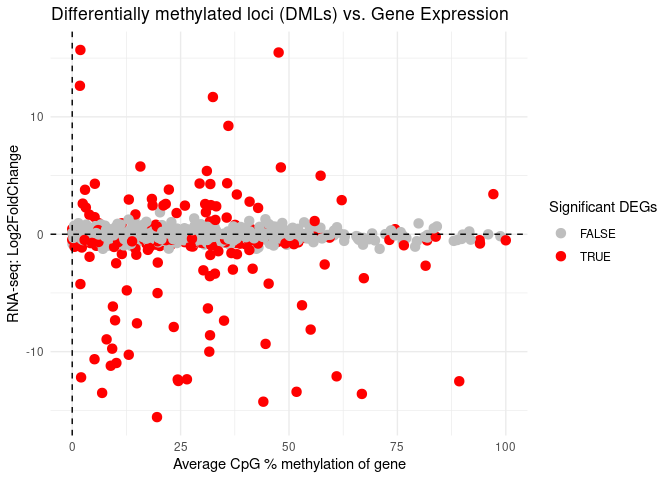
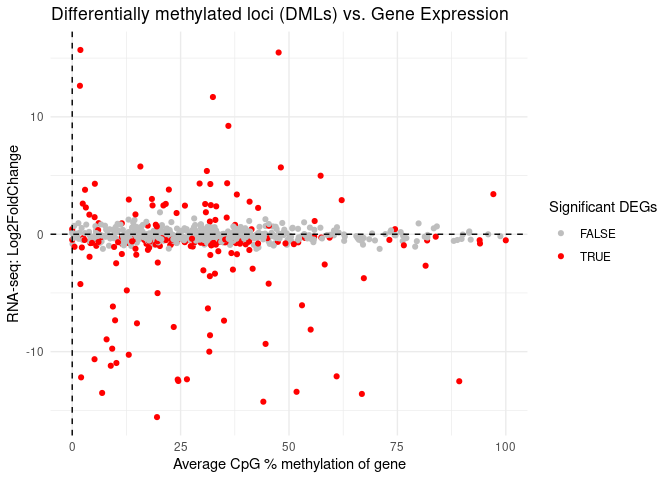
update

diff --git a/code/09-MethylKit.md b/code/09-MethylKit.md
@@ -13,6 +13,7 @@ Zoe Dellaert
   methylation](#04-further-look-at-genome-wide-methylation)
   - [0.4.1 Annotation](#041-annotation)
 - [0.5 Are any DMGs DMLs?](#05-are-any-dmgs-dmls)
+  - [0.5.1 Read counts](#051-read-counts)
 
 ## 0.1 MethylKit
 
@@ -891,12 +892,12 @@ percent_meth <- percent_meth %>% rowwise() %>%
   ungroup()
 
 percent_meth <- percent_meth %>% rowwise() %>%
-  mutate(percent_meth_ORAL = mean(c_across(meta$Sample[meta$Tissue=="OralEpi"]), na.rm = TRUE)) %>%
-  mutate(percent_meth_ABORAL = mean(c_across(meta$Sample[meta$Tissue=="Aboral"]), na.rm = TRUE)) %>%
+  mutate(Oral = mean(c_across(meta$Sample[meta$Tissue=="OralEpi"]), na.rm = TRUE)) %>%
+  mutate(Aboral = mean(c_across(meta$Sample[meta$Tissue=="Aboral"]), na.rm = TRUE)) %>%
   ungroup()
   
 percent_meth_long <- percent_meth %>% pivot_longer(
-                                      cols = c(percent_meth_ORAL,percent_meth_ABORAL),
+                                      cols = c(Oral,Aboral),
                                       names_to = "Tissue",
                                       values_to = "tissue_percent_meth"
 )
@@ -946,7 +947,7 @@ ggplot(plot_data, aes(y = abs(log2FoldChange), x = percent_meth_ALL)) +
 ``` r
 # Create the plot
 ggplot(plot_data, aes(x = percent_meth_ALL, y = log2FoldChange)) +
-  geom_point(aes(color = padj < 0.05), size = 3) +
+  geom_point(aes(color = padj < 0.05)) +
   #geom_text_repel(aes(label = ifelse(padj < 0.05, gene_id, "")), max.overlaps = 20) +
   geom_hline(yintercept = 0, linetype = "dashed") +
   geom_vline(xintercept = 0, linetype = "dashed") +
@@ -966,10 +967,61 @@ plot_data <- merge(percent_meth_long, DESeq, by.x = "gene_id", by.y = "query")
 ggplot(plot_data, aes(y = abs(log2FoldChange), x = tissue_percent_meth, color=Tissue)) +
   geom_point(alpha = 0.5) + geom_smooth(method = "lm") + stat_poly_eq(use_label("eq", "R2"))+
   labs(x = "Average CpG % methylation of gene", y = "Abs(DeSeq2 Log2FoldChange)", 
-       title = "Oral methylation only - Gene Methylation vs Expression") +
+       title = "Gene Methylation vs Expression") +
   theme_minimal()
 ```
 
     ## `geom_smooth()` using formula = 'y ~ x'
 
 ![](09-MethylKit_files/figure-gfm/unnamed-chunk-22-1.png)<!-- -->
+
+### 0.5.1 Read counts
+
+RNA metadata:
+
+``` r
+meta_RNA <- read.csv("../data_RNA/LCM_RNA_metadata.csv") %>%
+            dplyr::arrange(Sample) %>%
+            mutate(across(c(Tissue, Fragment, Section_Date, LCM_Date), factor)) # Set variables as factors 
+
+meta_RNA$Tissue <- factor(meta_RNA$Tissue, levels = c("OralEpi","Aboral")) #we want OralEpi to be the baseline
+```
+
+``` r
+filtered_counts_RNA <- read.csv("../output_RNA/differential_expression/filtered_counts.csv") 
+rownames(filtered_counts_RNA) <- filtered_counts_RNA$X
+filtered_counts_RNA <- filtered_counts_RNA %>% select(-X)
+filtered_counts_RNA$sum <- rowSums(filtered_counts_RNA)
+filtered_counts_RNA$gene_id <- rownames(filtered_counts_RNA)
+
+filtered_counts_RNA <- filtered_counts_RNA %>% rowwise() %>%
+  mutate(Oral = mean(c_across(meta_RNA$Sample[meta_RNA$Tissue=="OralEpi"]), na.rm = TRUE)) %>%
+  mutate(Aboral = mean(c_across(meta_RNA$Sample[meta_RNA$Tissue=="Aboral"]), na.rm = TRUE)) %>%
+  ungroup()
+  
+filtered_counts_RNA_long <- filtered_counts_RNA %>% pivot_longer(
+                                      cols = c(Oral,Aboral),
+                                      names_to = "Tissue",
+                                      values_to = "tissue_mean_counts"
+)
+```
+
+``` r
+plot_data <- merge(percent_meth_long, filtered_counts_RNA_long, by = c("gene_id", "Tissue"))
+
+ggplot(plot_data, aes(y = log2(tissue_mean_counts), x = tissue_percent_meth, color=Tissue)) +
+  geom_point(alpha = 0.5) + geom_smooth(method = "lm") + stat_poly_eq(use_label("eq", "R2"))+
+  labs(x = "Average CpG % methylation of gene", y = "Mean counts, all samples", 
+       title = "Gene Methylation vs Expression") +
+  theme_minimal()
+```
+
+    ## `geom_smooth()` using formula = 'y ~ x'
+
+    ## Warning: Removed 15 rows containing non-finite outside the scale range
+    ## (`stat_smooth()`).
+
+    ## Warning: Removed 15 rows containing non-finite outside the scale range
+    ## (`stat_poly_eq()`).
+
+![](09-MethylKit_files/figure-gfm/unnamed-chunk-25-1.png)<!-- -->
